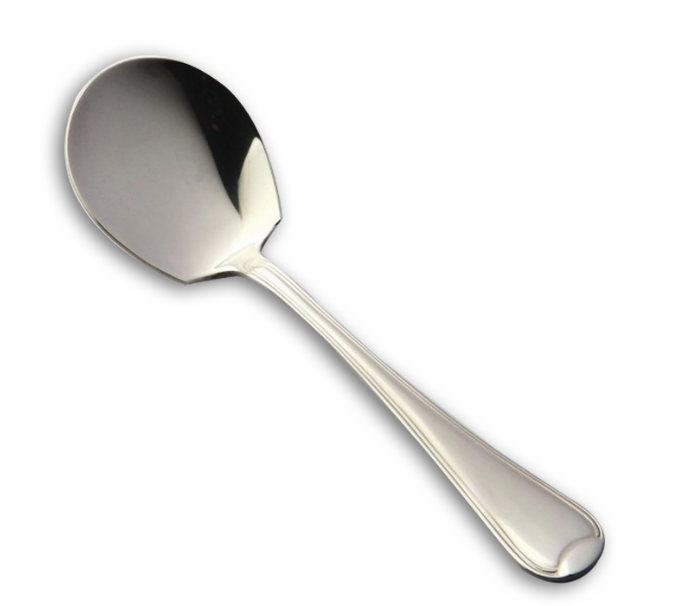
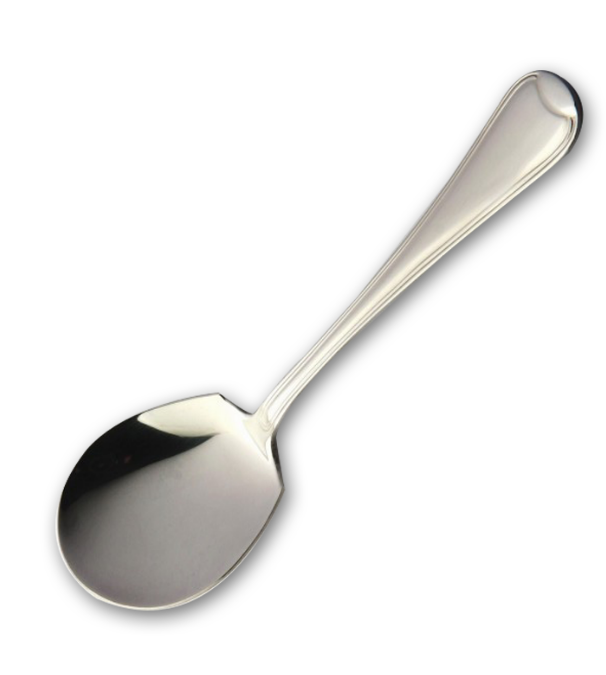
Update picture & Size of Container

diff --git a/project/lib/WeightControl.dart b/project/lib/WeightControl.dart
@@ -37,18 +37,34 @@ class Weight extends StatelessWidget {
   SmallWidget Swg1 = SmallWidget(
     total: 'รวม(กรัม)',
     data: 'ผลไม้',
-    unit1: '   ชิ้น',//ขอลักไก่หน่อยละกัน ไม่รู้จะแก้ยังไงให้ตรงละ
-    unit2: '   ผล', 
-    asset1: Image.asset('asset/image/OnePieceOfApple.jpg',height: 100,width: 100,), 
-    asset2: Image.asset('asset/image/Apple.png',height: 100,width: 100,),//อย่าลบนะ
+    unit1: '   ชิ้น', //ขอลักไก่หน่อยละกัน ไม่รู้จะแก้ยังไงให้ตรงละ
+    unit2: '   ผล',
+    asset1: Image.asset(
+      'asset/image/OnePieceOfApple.jpg',
+      height: 100,
+      width: 100,
+    ),
+    asset2: Image.asset(
+      'asset/image/Apple.png',
+      height: 100,
+      width: 100,
+    ), //อย่าลบนะ
   );
   SmallWidget Swg2 = SmallWidget(
     total: 'รวม(มล.)',
     data: 'นม',
     unit1: 'แก้ว',
-    unit2: 'กล่อง', 
-    asset1: Image.asset('asset/image/glass of milk.png',height: 100,width: 100,), 
-    asset2: Image.asset('asset/image/Milk.png',height: 100,width: 100,),
+    unit2: 'กล่อง',
+    asset1: Image.asset(
+      'asset/image/glass of milk.png',
+      height: 100,
+      width: 100,
+    ),
+    asset2: Image.asset(
+      'asset/image/Milk.png',
+      height: 100,
+      width: 100,
+    ),
   );
   //final DataCount Bwgdata = DataCount();
   Weight({
@@ -94,7 +110,8 @@ class Weight extends StatelessWidget {
           backgroundColor: Color(0xffeeaeca),
           leading: IconButton(
             onPressed: () {
-              Navigator.push(context,MaterialPageRoute(builder: (context) => MainScreen()));
+              Navigator.push(context,
+                  MaterialPageRoute(builder: (context) => MainScreen()));
             },
             icon: Icon(
               Icons.arrow_back,
@@ -152,12 +169,12 @@ class Weight extends StatelessWidget {
                       fontWeight: FontWeight.bold,
                       fontFamily: 'Twist',
                       shadows: [
-                      BoxShadow(
-                          color: Colors.black,
-                          offset: Offset(5, 5),
-                          spreadRadius: 10,
-                          blurRadius: 10)
-                    ],
+                        BoxShadow(
+                            color: Colors.black,
+                            offset: Offset(5, 5),
+                            spreadRadius: 10,
+                            blurRadius: 10)
+                      ],
                       color: Colors.white),
                   textAlign: TextAlign.center,
                 ),
@@ -201,21 +218,29 @@ class Weight extends StatelessWidget {
                 ),
                 Padding(
                   padding: const EdgeInsets.only(bottom: 10.0),
-                  child: Center(
+                  child: Container(
+                    decoration: BoxDecoration(
+                      borderRadius: BorderRadius.circular(20),
+                      gradient: LinearGradient(
+                        begin: Alignment.centerLeft,
+                        end: Alignment.centerRight,
+                        colors: [Colors.green, Colors.blue],
+                      ),
+                    ),
                     child: ElevatedButton(
                       onPressed: () {
-                        ScaffoldMessenger.of(context).showSnackBar(
-                          SnackBar(
-                            content: const Text('บันทึกข้อมูลเรียบร้อย'),
-                            action: SnackBarAction(
-                              label: 'history',
-                              onPressed: (){
-                                Navigator.push(context,MaterialPageRoute(builder: (context) => History()));
-                              },
-                              ),
-                          )
-                        );
-
+                        ScaffoldMessenger.of(context).showSnackBar(SnackBar(
+                          content: const Text('บันทึกข้อมูลเรียบร้อย'),
+                          action: SnackBarAction(
+                            label: 'history',
+                            onPressed: () {
+                              Navigator.push(
+                                  context,
+                                  MaterialPageRoute(
+                                      builder: (context) => History()));
+                            },
+                          ),
+                        ));
                         //เตรียมข้อมูล
                         transections statement = transections(
                             dataMeat: Bwg.getRLdataMeat(),
@@ -224,7 +249,7 @@ class Weight extends StatelessWidget {
                             dataFruit: Swg1.getRLSmallWidget(),
                             dataMilk: Swg2.getRLSmallWidget());
 
-                        //เรียก Porvider
+                        //เรียก Provider
                         var provider = Provider.of<TransectionProvider>(context,
                             listen: false);
                         provider.addTransection(statement);
@@ -234,26 +259,30 @@ class Weight extends StatelessWidget {
                         print(Bwg.getRLdataVeget());
                         print(Swg1.getRLSmallWidget());
                         print(Swg2.getRLSmallWidget());
-
                         print("Confirm");
                       },
-                      child: Row(
-                        mainAxisAlignment: MainAxisAlignment.center,
-                        children: [
-                          Text(
-                            "Confirm",
-                            style: TextStyle(fontFamily: 'Twist', fontSize: 32),
-                          ),
-                        ],
-                      ),
                       style: ElevatedButton.styleFrom(
-                          backgroundColor: Colors.green,
-                          foregroundColor: Colors.black,
-                          padding: EdgeInsets.symmetric(horizontal: 100),
-                          shape: RoundedRectangleBorder(
-                              borderRadius: BorderRadius.circular(20)),
-                          textStyle:
-                              TextStyle(fontSize: 30, fontFamily: 'Twist')),
+                        backgroundColor: Colors.green,
+                        foregroundColor: Colors.black,
+                        padding: EdgeInsets.symmetric(horizontal: 100),
+                        shape: RoundedRectangleBorder(
+                            borderRadius: BorderRadius.circular(20)),
+                      ),
+                      child: Text(
+                        "Confirm",
+                        style: TextStyle(
+                          fontFamily: 'Twist',
+                          fontSize: 32,
+                          color: Colors.white,
+                          shadows: [
+                            BoxShadow(
+                                color: Colors.black,
+                                offset: Offset(5, 5),
+                                spreadRadius: 10,
+                                blurRadius: 10)
+                          ],
+                        ),
+                      ),
                     ),
                   ),
                 )

diff --git a/project/lib/BigWidget1.dart b/project/lib/BigWidget1.dart
@@ -23,7 +23,7 @@ class BigWidget1 extends StatelessWidget {
   @override
   Widget build(BuildContext context) {
     return Container(
-      height: 460,
+      height: 400,
       decoration: BoxDecoration(
         color: Colors.white,
           // gradient: LinearGradient(
@@ -34,7 +34,7 @@ class BigWidget1 extends StatelessWidget {
           //   begin: Alignment.topLeft,
           //   end: Alignment.bottomRight,
           // ),
-          borderRadius: BorderRadius.circular(29),
+          borderRadius: BorderRadius.circular(20),
           boxShadow: [BoxShadow(blurRadius: 20)]),
       child: Column(children: [
         Padding(
@@ -45,30 +45,16 @@ class BigWidget1 extends StatelessWidget {
               Image.asset(
                 'asset/image/Spoon.png',
                 height: 80,
-                width: 100,
+                width: 140,
               ),
               Image.asset(
-                'asset/image/Ladle.jpg',
+                'asset/image/WoodLadel.png',
                 height: 100,
-                width: 100,
+                width: 80,
               ),
             ],
           ),
-        ),
-        //SizedBox(height: 50,),
-        RLdataMeat,
-        SizedBox(
-          height: 50,
-        ),
-        RLdataRice,
-        SizedBox(
-          height: 50,
-        ),
-        RLdataVeget,
-        SizedBox(
-          height: 30,
-        ),
-        Row(
+        ),Row(
           children: [
             SizedBox(
               width: 120,
@@ -93,6 +79,20 @@ class BigWidget1 extends StatelessWidget {
             )
           ],
         ),
+        SizedBox(height: 30,),
+        RLdataMeat,
+        SizedBox(
+          height: 30,
+        ),
+        RLdataRice,
+        SizedBox(
+          height: 30,
+        ),
+        RLdataVeget,
+        SizedBox(
+          height: 30,
+        ),
+        
 
         // Expanded(child: ElevatedButton(
         //                 onPressed: () {
@@ -112,9 +112,6 @@ class BigWidget1 extends StatelessWidget {
         //                 ),
         //               ), ),
 
-        SizedBox(
-          height: 20,
-        ),
         //ProgressbarState(result: getAllWidgetData(),),
         LinearPercentIndicator(
                           padding: const EdgeInsets.symmetric(horizontal: 20),

diff --git a/project/lib/SmallWidget.dart b/project/lib/SmallWidget.dart
@@ -19,7 +19,7 @@ class SmallWidget extends StatelessWidget {
   
 
     return Container(
-      height: 250,
+      height: 270,
       decoration: BoxDecoration(
         color: Colors.white,
         // gradient: LinearGradient(
@@ -27,7 +27,7 @@ class SmallWidget extends StatelessWidget {
         //       begin: Alignment.topLeft,
         //       end: Alignment.bottomRight,
         //     ),
-        borderRadius: BorderRadius.circular(29),
+        borderRadius: BorderRadius.circular(20),
         boxShadow: [BoxShadow(blurRadius: 20)]
 
       ),
@@ -48,9 +48,6 @@ class SmallWidget extends StatelessWidget {
             ],
           ),
         ),
-        //SizedBox(height: 50,),
-        RL,
-        SizedBox(height: 30,),
         Row(
           children: [
             SizedBox(width: 120,),
@@ -70,7 +67,9 @@ class SmallWidget extends StatelessWidget {
             ),)
           ],
         ),
-        SizedBox(height: 20,),
+        SizedBox(height: 30,),
+        RL,
+        SizedBox(height: 30,),
         LinearPercentIndicator(
                           padding: const EdgeInsets.symmetric(horizontal: 20),
                           animation: true,

diff --git a/project/lib/countIcon.dart b/project/lib/countIcon.dart
@@ -46,7 +46,7 @@ class _MyWidgetState extends State<CountIcon> {
             ),
           ),
           SizedBox(
-            width: 1,
+            width: 2,
           ),
           Text(
             num.toString(),
@@ -59,7 +59,7 @@ class _MyWidgetState extends State<CountIcon> {
             ),
           ),
           SizedBox(
-            width: 1,
+            width: 2,
           ),
           GestureDetector(
             onTap: (){
